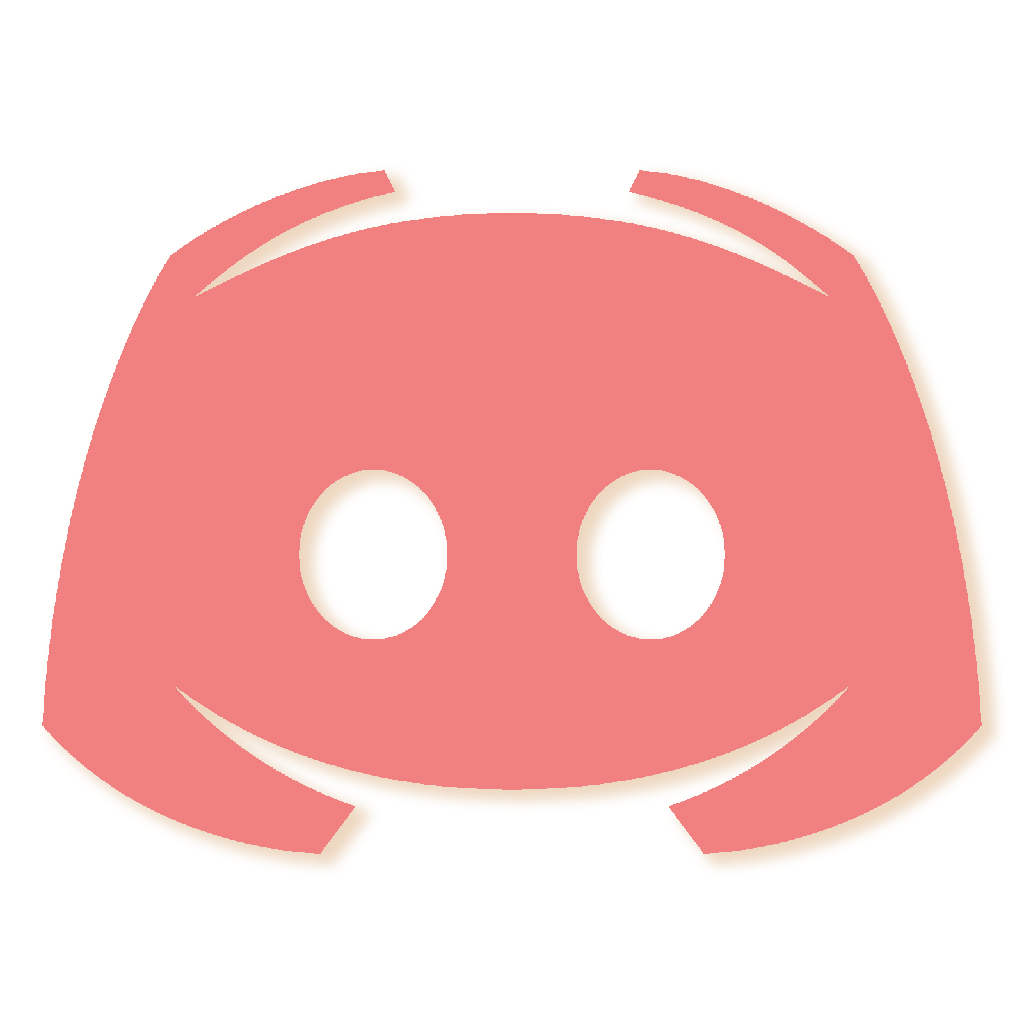
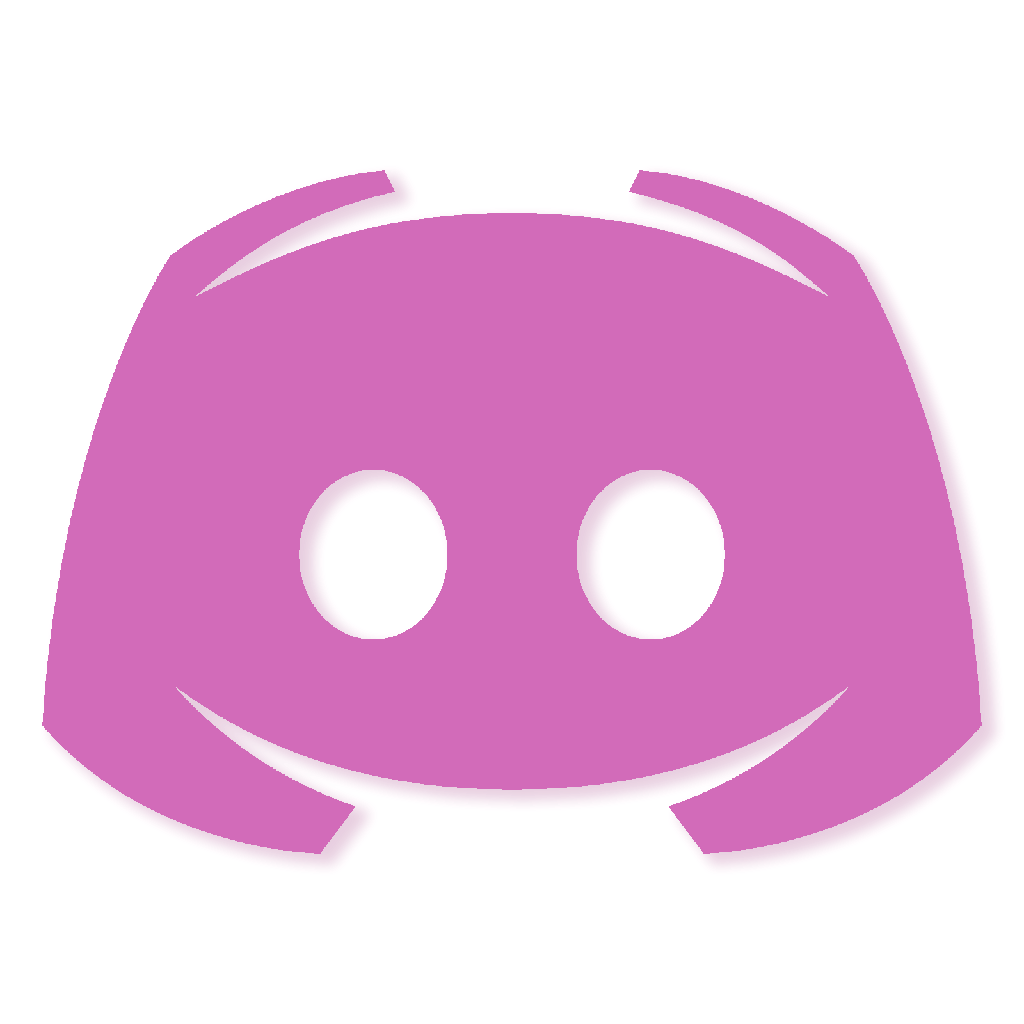
complete first build of website

diff --git a/venv/index.html b/venv/index.html
@@ -4,7 +4,7 @@
     <meta charset="UTF-8">
     <meta name="viewport" content="width=device-width, initial-scale=1.0">
     <title>Timothy Pidashev</title>
-    <link rel="shortcut icon" type="image/png" href="images/elements/png/n8dev.png"/>
+    <link rel="shortcut icon" type="image/png" href="images/elements/png/timmy.png"/>
     <link rel="stylesheet" href="styles.css">
     <link rel="preconnect" href="https://fonts.gstatic.com">
     <link href="https://fonts.googleapis.com/css2?family=Montserrat:ital,wght@0,100;0,200;0,300;0,400;0,500;0,600;0,700;0,800;0,900;1,100;1,200;1,300;1,400;1,500;1,600;1,700;1,800;1,900&display=swap" rel="stylesheet">
@@ -21,8 +21,8 @@
     <section class="centered">
         <div>
             <h1 class="about__header" data-aos="zoom-out">
-                I'm a 16-year-old
-                <span class="orange__highlight">on an epic journey</span>
+                I'm a 16-year-old on an
+                <span class="orange__highlight">epic journey</span>
             </h1>
             <h1 class="about__header" data-aos="flip-down">
                 to become a

diff --git a/venv/styles.css b/venv/styles.css
@@ -5,8 +5,8 @@
 }
 
 html {
-    background-color: #E9CBAF;
-    color: #6C3D4C;
+    background-color: #FB93DA;
+    color: #404082;
     font-family: 'Montserrat', sans-serif;
     font-weight: 400;
     font-size: 1vh;
@@ -34,11 +34,11 @@ html {
 }
 
 .pink__colored {
-    color: #F18080;
+    color: #D26BB9;
 }
 
 .orange__highlight {
-    background-color: #F9A875;
+    background-color: #D26BB9;
     border-radius: 20px;
     line-height: 1.5;
     padding-right: 0.9vw;
